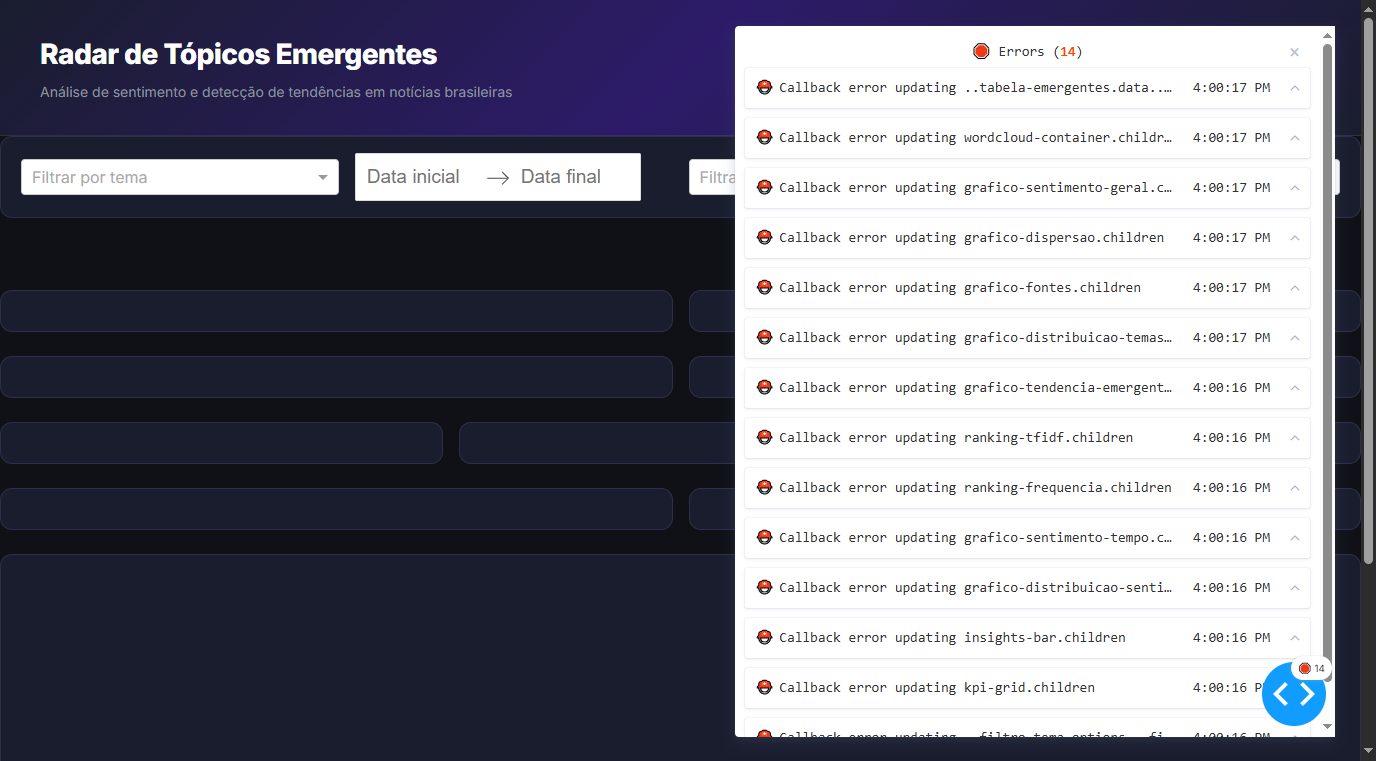
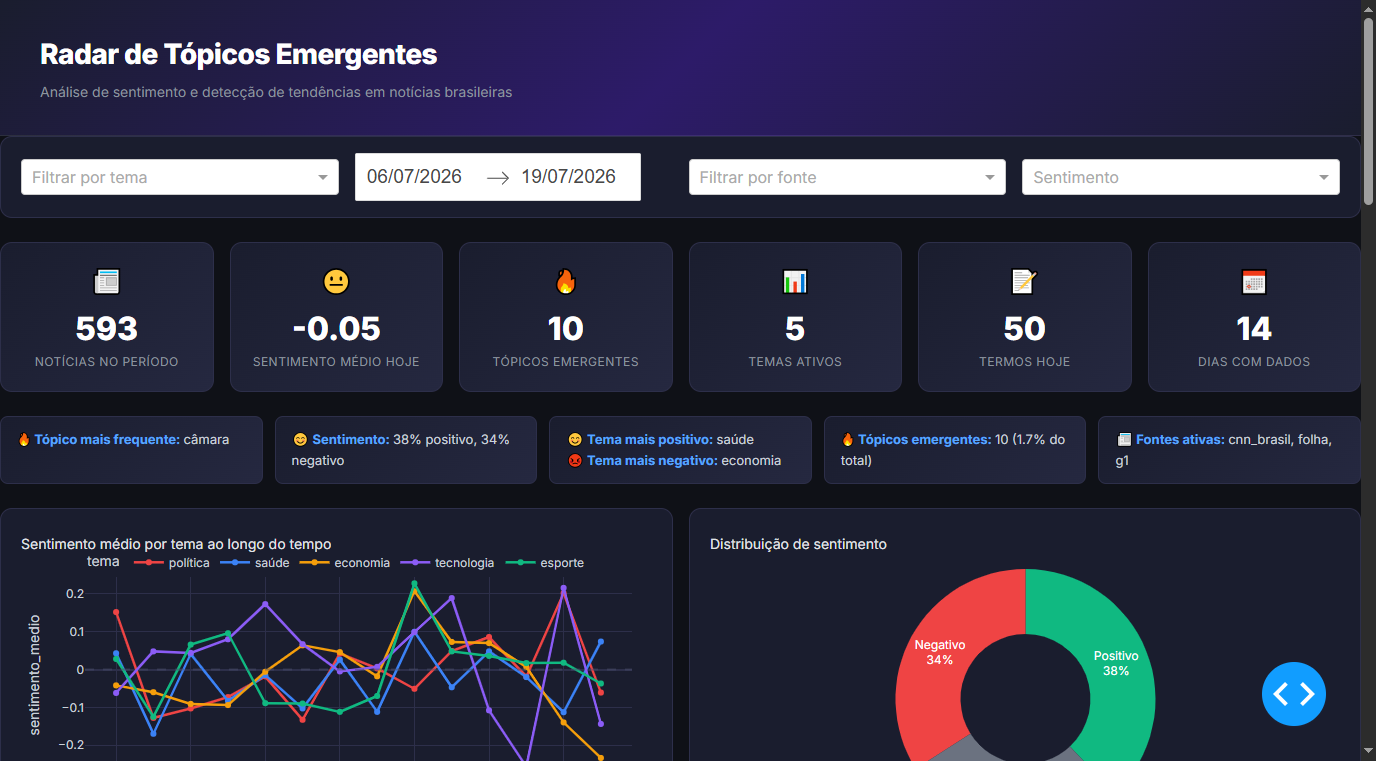
fix: all callbacks working, fontes column handling, axis conflicts resolved

diff --git a/dashboard/app.py b/dashboard/app.py
@@ -156,6 +156,49 @@ def _theme_color(tema):
     return cores.get(tema, "#6b7280")
 
 
+def _apply_filters(df1, df2, temas, fontes, sentimento, start, end):
+    if df1.empty:
+        return df1, df2
+    if start:
+        df1 = df1[df1["data"] >= start]
+    if end:
+        df1 = df1[df1["data"] <= end]
+    if temas:
+        df1 = df1[df1["tema"].isin(temas)]
+    if fontes and "fontes" in df1.columns:
+        mask = df1["fontes"].apply(lambda x: any(f in str(x).split(",") for f in fontes))
+        df1 = df1[mask]
+    if sentimento:
+        df1 = df1[df1["sentimento_predominante_termo"].isin(sentimento)]
+
+    if not df2.empty:
+        if start:
+            df2 = df2[df2["data"] >= start]
+        if end:
+            df2 = df2[df2["data"] <= end]
+        if temas:
+            df2 = df2[df2["tema"].isin(temas)]
+
+    return df1, df2
+
+
+def _make_empty_fig(msg="Sem dados no período"):
+    fig = go.Figure()
+    fig.add_annotation(
+        text=msg, x=0.5, y=0.5, xref="paper", yref="paper",
+        showarrow=False, font=dict(size=14, color="#8b949e"),
+    )
+    fig.update_layout(
+        paper_bgcolor="#1a1d2e", plot_bgcolor="#1a1d2e",
+        margin=dict(l=20, r=20, t=40, b=20),
+        font=dict(color="#c9d1d9"),
+        height=300,
+        xaxis=dict(visible=False),
+        yaxis=dict(visible=False),
+    )
+    return fig
+
+
 
 
 
@@ -196,7 +239,7 @@ def _init_filters(_):
         min_d, max_d = None, None
 
     fontes = set()
-    if not df1.empty:
+    if not df1.empty and "fontes" in df1.columns:
         for f in df1["fontes"].dropna():
             for src in str(f).split(","):
                 src = src.strip()
@@ -235,36 +278,41 @@ def _update_kpis(temas, fontes, sentimento, start, end):
     temas_ativos = df_hoje["tema"].nunique()
 
     sent_icon = "😊" if sent_medio > 0.1 else ("😡" if sent_medio < -0.1 else "😐")
+    qtd_hoje = int(df_hoje["emergente"].dropna().sum())
+    total_noticias_periodo = len(df1)
+    total_termos_hoje = len(df_hoje)
+    temas_ativos = df1["tema"].nunique()
+    dias_com_dados = df1["data"].nunique()
 
     return [
         html.Div([
             html.Div("📰", className="kpi-icon"),
-            html.Div(str(len(df1)), className="kpi-value"),
+            html.Div(str(total_noticias_periodo), className="kpi-value"),
             html.Div("Notícias no período", className="kpi-label"),
         ], className="kpi-card"),
         html.Div([
             html.Div(sent_icon, className="kpi-icon"),
             html.Div(f"{sent_medio:.2f}" if not pd.isna(sent_medio) else "N/A", className="kpi-value"),
-            html.Div("Sentimento médio", className="kpi-label"),
+            html.Div("Sentimento médio hoje", className="kpi-label"),
         ], className="kpi-card"),
         html.Div([
             html.Div("🔥", className="kpi-icon"),
-            html.Div(str(int(df1[df1["data"] == latest]["emergente"].dropna().sum())), className="kpi-value"),
+            html.Div(str(qtd_hoje), className="kpi-value"),
             html.Div("Tópicos emergentes", className="kpi-label"),
         ], className="kpi-card"),
         html.Div([
             html.Div("📊", className="kpi-icon"),
-            html.Div(str(df1["tema"].nunique()), className="kpi-value"),
+            html.Div(str(temas_ativos), className="kpi-value"),
             html.Div("Temas ativos", className="kpi-label"),
         ], className="kpi-card"),
         html.Div([
-            html.Div("📰", className="kpi-icon"),
-            html.Div(str(len(df1)), className="kpi-value"),
-            html.Div("Total de termos", className="kpi-label"),
+            html.Div("📝", className="kpi-icon"),
+            html.Div(str(total_termos_hoje), className="kpi-value"),
+            html.Div("Termos hoje", className="kpi-label"),
         ], className="kpi-card"),
         html.Div([
             html.Div("📅", className="kpi-icon"),
-            html.Div(str(df1["data"].nunique()), className="kpi-value"),
+            html.Div(str(dias_com_dados), className="kpi-value"),
             html.Div("Dias com dados", className="kpi-label"),
         ], className="kpi-card"),
     ]
@@ -283,7 +331,6 @@ def _update_insights(temas, fontes, sentimento, start, end):
 
     latest = df1["data"].max()
     df_hoje = df1[df1["data"] == latest]
-    df_anterior = df1[df1["data"] < latest] if not df1.empty else pd.DataFrame()
 
     insights = []
 
@@ -496,10 +543,10 @@ def _update_theme_dist(temas, fontes, sentimento, start, end):
     )
     fig.update_layout(
         **_fig_layout("Distribuição por tema"),
-        xaxis=dict(title="", tickangle=-30),
-        yaxis=dict(title="Quantidade de termos"),
         showlegend=False,
     )
+    fig.update_xaxes(title="", tickangle=-30)
+    fig.update_yaxes(title="Quantidade de termos")
     fig.update_traces(textposition="outside", textfont=dict(color="#c9d1d9"))
     return dcc.Graph(figure=fig)
 
@@ -536,10 +583,10 @@ def _update_source_chart(temas, fontes, sentimento, start, end):
     )
     fig.update_layout(
         **_fig_layout("Distribuição por fonte"),
-        xaxis=dict(title="", tickangle=-20),
-        yaxis=dict(title="Termos"),
         showlegend=False,
     )
+    fig.update_xaxes(title="", tickangle=-20)
+    fig.update_yaxes(title="Termos")
     fig.update_traces(textposition="outside", textfont=dict(color="#c9d1d9"))
     return dcc.Graph(figure=fig)
 
@@ -601,9 +648,9 @@ def _update_sentiment_overall(temas, fontes, sentimento, start, end):
     fig.update_layout(
         **_fig_layout("Distribuição de sentimento por tema"),
         barmode="group",
-        yaxis=dict(title="Percentual", tickformat=".0%"),
         showlegend=True,
     )
+    fig.update_yaxes(title="Percentual", tickformat=".0%")
     return dcc.Graph(figure=fig)
 
 

diff --git a/_generate_mock_data.py b/_generate_mock_data.py
@@ -67,6 +67,7 @@ for data in base_datas:
             else:
                 emergente = False
 
+        fontes_escolhidas = random.sample(["g1", "folha", "cnn_brasil"], random.randint(1, 3))
         rows_topics.append({
             "data": data_str,
             "termo": termo,
@@ -77,6 +78,7 @@ for data in base_datas:
             "tema": tema,
             "sentimento_medio_termo": sentimento_medio,
             "sentimento_predominante_termo": sentimento,
+            "fontes": ",".join(fontes_escolhidas),
         })
 
         if tema not in sentimento_tema: